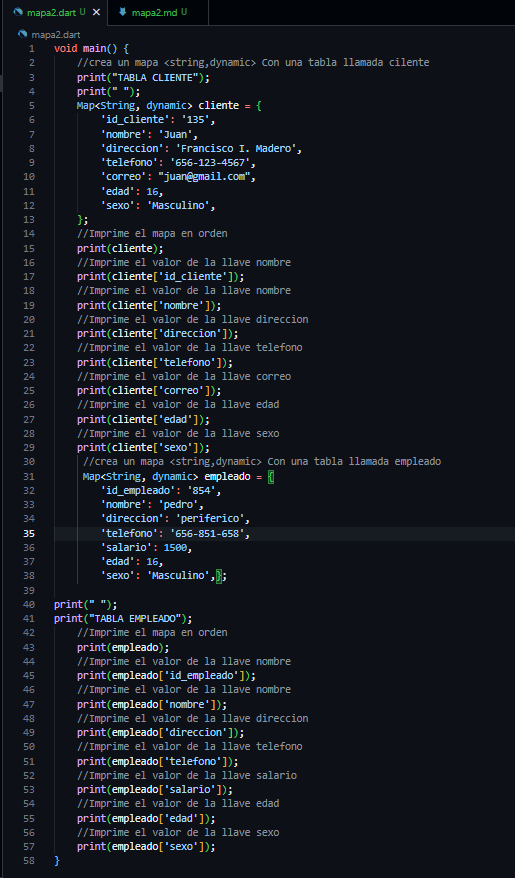
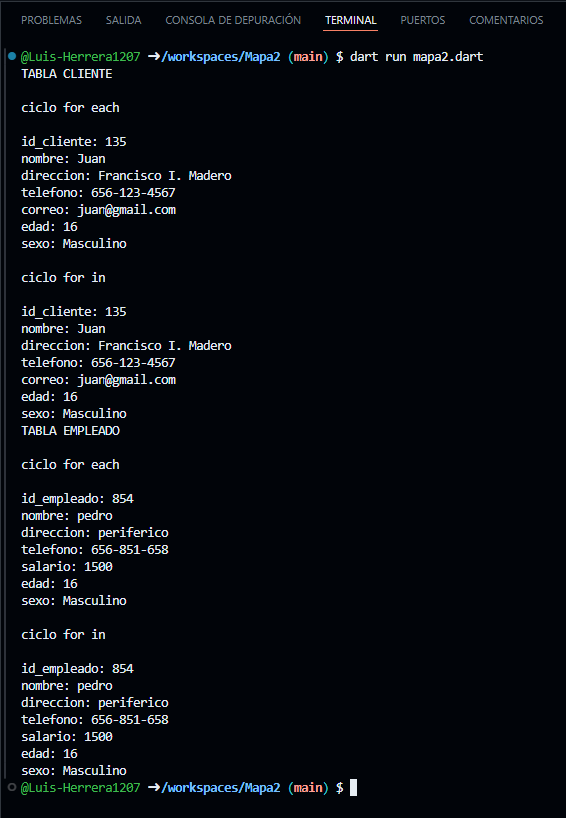
commit message ```

Changed region(s): [[0.0, 0.0, 1.0, 1.0]]

diff --git a/mapa2.dart b/mapa2.dart
@@ -9,25 +9,25 @@ void main() {
         'telefono': '656-123-4567',
         'correo': "juan@gmail.com",
         'edad': 16,
-        'sexo': 'Masculino',
-    };
-    //Imprime el mapa en orden
-    print(cliente);
-    //Imprime el valor de la llave nombre
-    print(cliente['id_cliente']);
-    //Imprime el valor de la llave nombre
-    print(cliente['nombre']);
-    //Imprime el valor de la llave direccion
-    print(cliente['direccion']);
-    //Imprime el valor de la llave telefono
-    print(cliente['telefono']);
-    //Imprime el valor de la llave correo
-    print(cliente['correo']);
-    //Imprime el valor de la llave edad
-    print(cliente['edad']);
-    //Imprime el valor de la llave sexo
-    print(cliente['sexo']);
+        'sexo': 'Masculino',};
+        
+        print("ciclo for each");
+        print(" ");
+        cliente.forEach((key, value) {
+            print('$key: $value');
+        });
+
+        print(" ");
+
+        print("ciclo for in");
+        print(" ");
+        for (var key in cliente.keys) {
+            print('$key: ${cliente[key]}');
+        }
+
      //crea un mapa <string,dynamic> Con una tabla llamada empleado
+     print("TABLA EMPLEADO");
+     print(" ");
      Map<String, dynamic> empleado = {
         'id_empleado': '854',
         'nombre': 'pedro',
@@ -37,22 +37,19 @@ void main() {
         'edad': 16,
         'sexo': 'Masculino',};
 
-print(" ");
-print("TABLA EMPLEADO");
-    //Imprime el mapa en orden
-    print(empleado);
-    //Imprime el valor de la llave nombre
-    print(empleado['id_empleado']);
-    //Imprime el valor de la llave nombre
-    print(empleado['nombre']);
-    //Imprime el valor de la llave direccion
-    print(empleado['direccion']);
-    //Imprime el valor de la llave telefono
-    print(empleado['telefono']);
-    //Imprime el valor de la llave salario
-    print(empleado['salario']);
-    //Imprime el valor de la llave edad
-    print(empleado['edad']);
-    //Imprime el valor de la llave sexo
-    print(empleado['sexo']);
+        print("ciclo for each");
+        print(" ");
+        empleado.forEach((key, value) {
+            print('$key: $value');
+        });
+
+        print(" ");
+
+
+        print("ciclo for in");
+        print(" ");
+        for (var key in empleado.keys) {
+            print('$key: ${empleado[key]}');
+        }
+
 }

diff --git a/recursos/mapa2.md b/recursos/mapa2.md
@@ -1,5 +1,5 @@
 codigo
-![alt text](image.png)
+![alt text](image-1.png)
 
 salida de tablas
-![alt text](image-1.png)
+![alt text](image.png)
